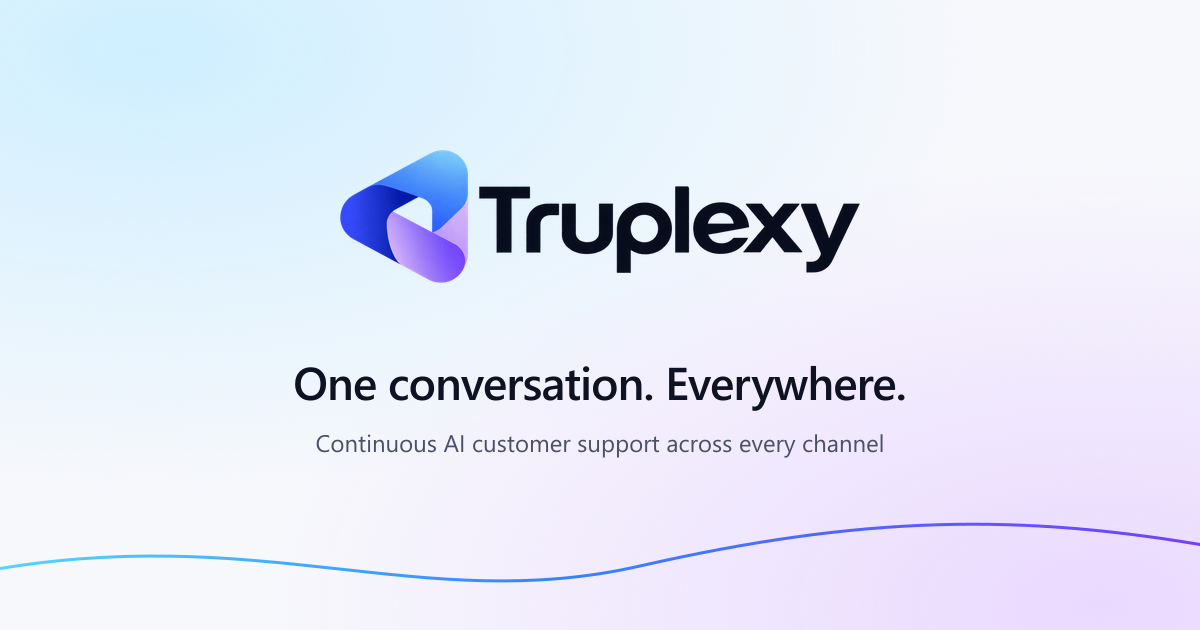
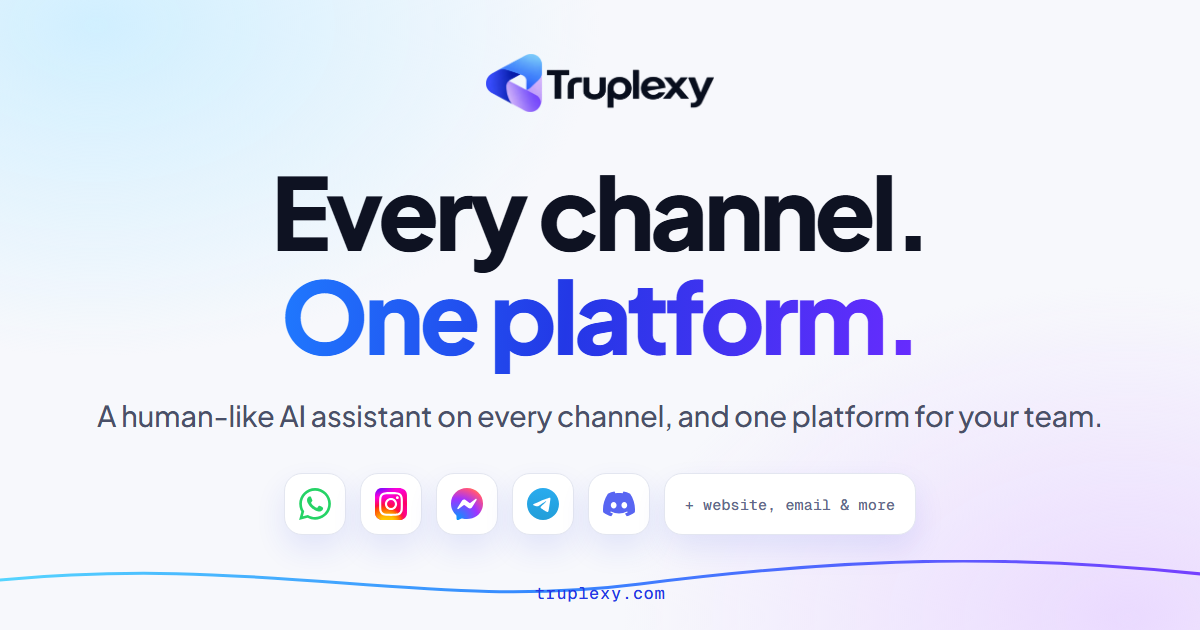
Align site copy and OG card with the launch film story
Tagline is now "Every channel. One platform.": an AI assistant on every
channel plus one platform where the team manages every conversation. Drops
the cross-channel memory claims from the home page, meta description,
feature list and pricing, replaces the Persistent context card with a
One inbox card, and redraws the OG card (rendered from scripts/og-card.html
via `npm run og`).

diff --git a/scripts/og-card.html b/scripts/og-card.html
@@ -1,0 +1,149 @@
+<!doctype html>
+<!--
+  Source of public/og-card.png (1200×630). Render it with `npm run og`.
+  Copy follows the launch film: the end line "Every channel. One platform."
+  Colours and type are the site's tokens (src/styles/tokens.css).
+-->
+<html lang="en">
+  <head>
+    <meta charset="utf-8" />
+    <title>Truplexy OG card</title>
+    <style>
+      @font-face {
+        font-family: 'Plus Jakarta Sans';
+        font-weight: 200 800;
+        src: url('../node_modules/@fontsource-variable/plus-jakarta-sans/files/plus-jakarta-sans-latin-wght-normal.woff2') format('woff2');
+      }
+      @font-face {
+        font-family: 'Geist Mono';
+        font-weight: 100 900;
+        src: url('../node_modules/@fontsource-variable/geist-mono/files/geist-mono-latin-wght-normal.woff2') format('woff2');
+      }
+
+      * { box-sizing: border-box; margin: 0; padding: 0; }
+
+      html, body { width: 1200px; height: 630px; overflow: hidden; }
+
+      body {
+        position: relative;
+        font-family: 'Plus Jakarta Sans', 'Segoe UI', sans-serif;
+        color: #0e1222;
+        background:
+          radial-gradient(60% 75% at 8% 4%, rgb(207 239 255 / 0.95), transparent 70%),
+          radial-gradient(60% 75% at 94% 98%, rgb(234 217 255 / 0.95), transparent 70%),
+          #f7f8fc;
+      }
+
+      .card {
+        position: absolute;
+        inset: 0;
+        display: flex;
+        flex-direction: column;
+        align-items: center;
+        text-align: center;
+        padding-top: 54px;
+      }
+
+      .wordmark { height: 58px; width: auto; display: block; }
+
+      h1 {
+        margin-top: 46px;
+        font-size: 100px;
+        line-height: 1.04;
+        font-weight: 800;
+        letter-spacing: -0.045em;
+      }
+
+      h1 span {
+        display: block;
+        padding-bottom: 0.08em;
+        background: linear-gradient(95deg, #1f7bff 0%, #2338e6 45%, #6a2bff 100%);
+        -webkit-background-clip: text;
+        background-clip: text;
+        color: transparent;
+      }
+
+      .sub {
+        margin-top: 22px;
+        font-size: 29px;
+        line-height: 1.35;
+        font-weight: 500;
+        letter-spacing: -0.01em;
+        color: #4a5068;
+      }
+
+      .channels {
+        margin-top: 38px;
+        display: flex;
+        gap: 14px;
+        align-items: center;
+      }
+
+      .channels li {
+        list-style: none;
+        display: grid;
+        place-items: center;
+        width: 62px;
+        height: 62px;
+        border-radius: 18px;
+        background: #fff;
+        border: 1px solid #e3e6f0;
+        box-shadow: 0 14px 30px rgb(35 56 230 / 0.1);
+      }
+
+      .channels img { width: 32px; height: 32px; display: block; }
+
+      .channels .more {
+        width: auto;
+        padding: 0 20px;
+        font-family: 'Geist Mono', monospace;
+        font-size: 15px;
+        font-weight: 500;
+        letter-spacing: 0.01em;
+        color: #61688a;
+      }
+
+      .wave { position: absolute; left: 0; bottom: 0; width: 1200px; height: 70px; }
+
+      .url {
+        position: absolute;
+        left: 0;
+        right: 0;
+        bottom: 26px;
+        font-family: 'Geist Mono', monospace;
+        font-size: 17px;
+        font-weight: 500;
+        letter-spacing: 0.04em;
+        color: #2338e6;
+        text-align: center;
+      }
+    </style>
+  </head>
+  <body>
+    <svg class="wave" viewBox="0 0 1200 70" aria-hidden="true">
+      <defs>
+        <linearGradient id="t" x1="0" x2="1">
+          <stop offset="0" stop-color="#45d4ff" />
+          <stop offset="0.45" stop-color="#1f7bff" />
+          <stop offset="1" stop-color="#6a2bff" />
+        </linearGradient>
+      </defs>
+      <path d="M-20 22 C 260 -8, 420 52, 640 24 S 1020 -6, 1220 16" fill="none" stroke="url(#t)" stroke-width="3" stroke-linecap="round" opacity="0.9" />
+    </svg>
+
+    <main class="card">
+      <img class="wordmark" src="../src/assets/brand/wordmark-dark.png" alt="Truplexy" />
+      <h1>Every channel.<span>One platform.</span></h1>
+      <p class="sub">A human-like AI assistant on every channel, and one platform for your team.</p>
+      <ul class="channels" aria-hidden="true">
+        <li><img src="../public/brands/whatsapp.svg" alt="" /></li>
+        <li><img src="../public/brands/instagram.svg" alt="" /></li>
+        <li><img src="../public/brands/messenger.svg" alt="" /></li>
+        <li><img src="../public/brands/telegram.svg" alt="" /></li>
+        <li><img src="../public/brands/discord.svg" alt="" /></li>
+        <li class="more">+ website, email &amp; more</li>
+      </ul>
+      <p class="url">truplexy.com</p>
+    </main>
+  </body>
+</html>

diff --git a/src/data/site.ts b/src/data/site.ts
@@ -9,10 +9,10 @@ const email = 'hello@truplexy.com'; // PLACEHOLDER — real inbox
 export const SITE = {
   name: 'Truplexy',
   url: 'https://truplexy.com',
-  title: 'Truplexy — One conversation. Everywhere.',
+  title: 'Truplexy — Every channel. One platform.',
   description:
-    'Truplexy is the AI customer-support layer that keeps one continuous, human-like conversation going across your website, Telegram, Discord and your own apps — with smart handoff to your team when it matters.',
-  tagline: 'One conversation. Everywhere.',
+    'Truplexy puts a human-like AI assistant on every channel you already use, and gives your team one platform to manage every conversation — answers 24/7, with your team stepping in when it matters.',
+  tagline: 'Every channel. One platform.',
   email,
   // The dashboard, served by the `dashboard` service in vercel.json.
   dashboardUrl: 'https://app.truplexy.com',
@@ -32,7 +32,7 @@ export interface NavLink {
 export const PRODUCT_LINKS: NavLink[] = [
   { label: 'Human-like AI', href: '#features', blurb: 'Replies with the right tone, and no canned loops' },
   { label: 'Live demo', href: '#try', blurb: 'Be the customer and try it yourself' },
-  { label: 'Smart handoff', href: '#handoff', blurb: 'Your team steps in when a person adds value' },
+  { label: 'Smart handoff', href: '#handoff', blurb: 'Your team steps in with the conversation and context' },
   { label: 'Unified inbox', href: '#inbox', blurb: 'Every conversation and ticket in one place' },
   { label: 'Always on', href: '#continuous', blurb: 'Support that doesn’t clock out' },
 ];

diff --git a/src/data/pricing.ts b/src/data/pricing.ts
@@ -56,7 +56,7 @@ export const PLANS: Plan[] = [
     features: [
       'Website chat, WhatsApp, Messenger, Instagram, Telegram, Discord & Email',
       'Shopify, WooCommerce & WordPress',
-      'Cross-channel customer identity & shared history',
+      'Unified inbox for your whole team',
       'Knowledge base & custom tools',
       'Human handoff with full context',
       'REST API (limited)',
@@ -129,10 +129,9 @@ export const COMPARISON: { group: string; rows: CompareRow[] }[] = [
     ],
   },
   {
-    group: 'Customer memory',
+    group: 'Inbox & handoff',
     rows: [
-      { label: 'Cross-channel customer identity', values: all },
-      { label: 'Shared conversation history', values: all },
+      { label: 'Unified inbox', values: all },
       { label: 'Human handoff', values: all },
     ],
   },

diff --git a/README.md b/README.md
@@ -1,7 +1,8 @@
 # Truplexy — marketing site
 
-**One conversation. Everywhere.** The homepage positions Truplexy as a continuous AI
-customer-support layer across channels, not a single website chatbot.
+**Every channel. One platform.** The homepage positions Truplexy as an AI assistant on every
+channel a business uses, plus one platform where the team manages every conversation, as in the
+launch film (`launch-video/`).
 
 Astro 7 + React islands + Tailwind v4, with GSAP/Lenis for motion. Structure mirrors `zenova-v2`.
 
@@ -13,7 +14,8 @@ Astro 7 + React islands + Tailwind v4, with GSAP/Lenis for motion. Structure mir
 | `npm run build` | Static build to `dist/` |
 | `npm run check` | Type-check (`astro check`) |
 | `npm run verify` | Honesty audit of the built home, `/channels/*` and `/docs/*` pages (run after build) |
-| `npm run brand` | Regenerate trimmed logos, favicons and the OG card from `/logo` |
+| `npm run brand` | Regenerate trimmed logos and favicons from `/logo` |
+| `npm run og` | Render `public/og-card.png` from `scripts/og-card.html` |
 
 ## Deploying
 
